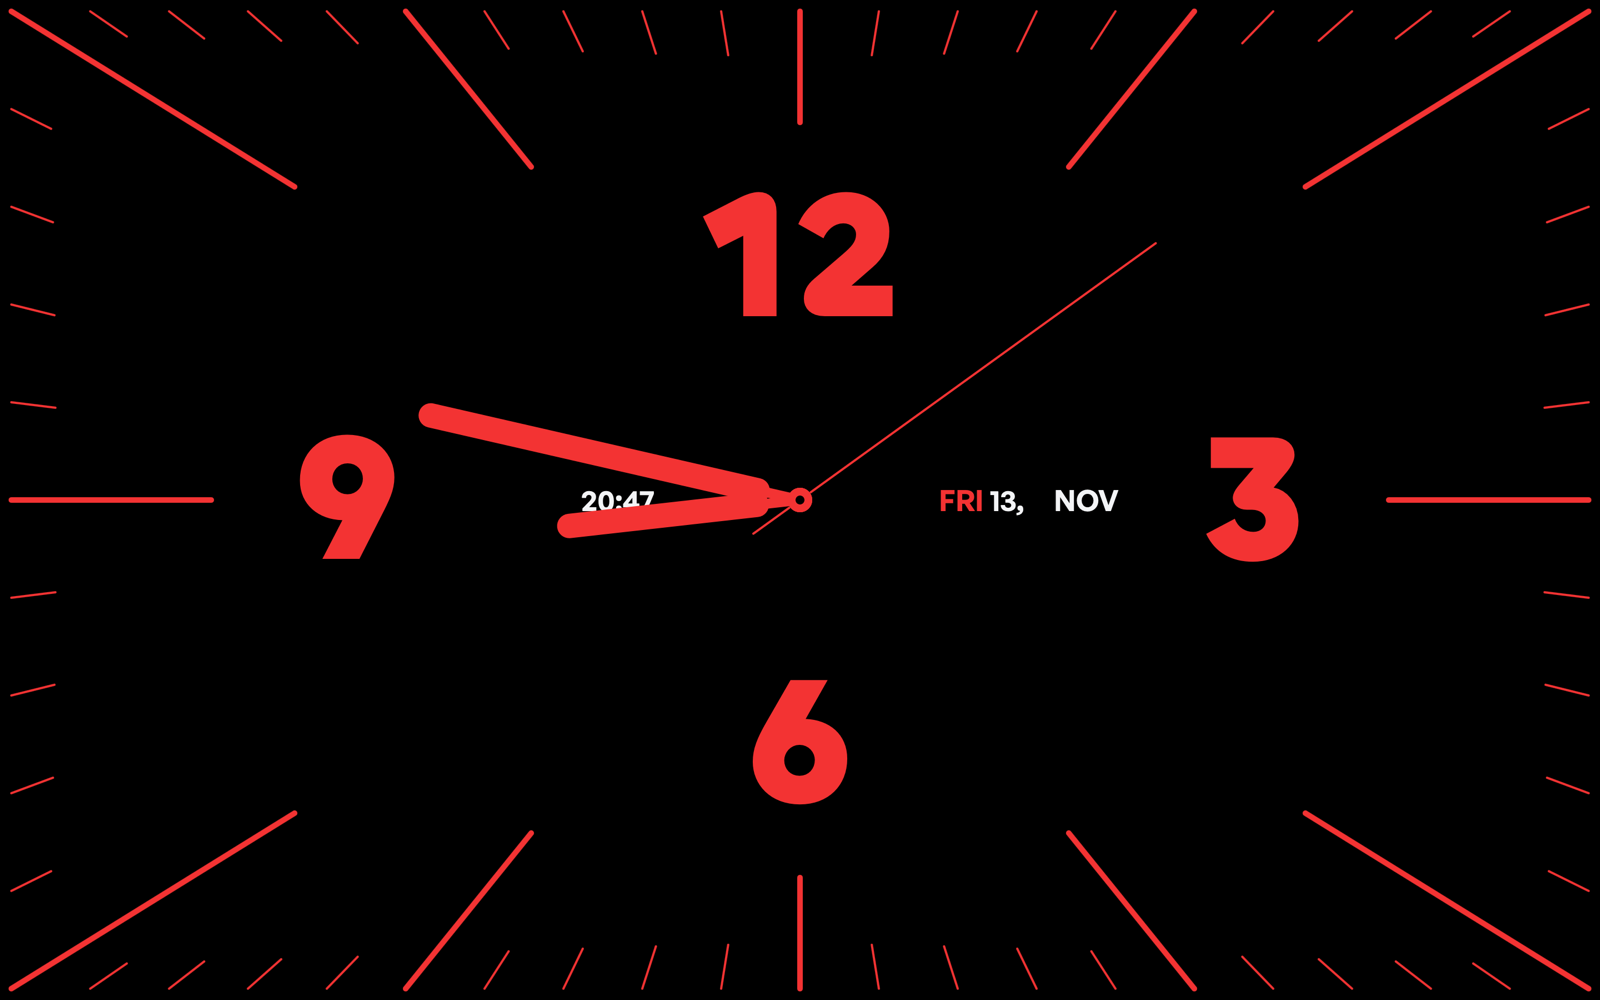
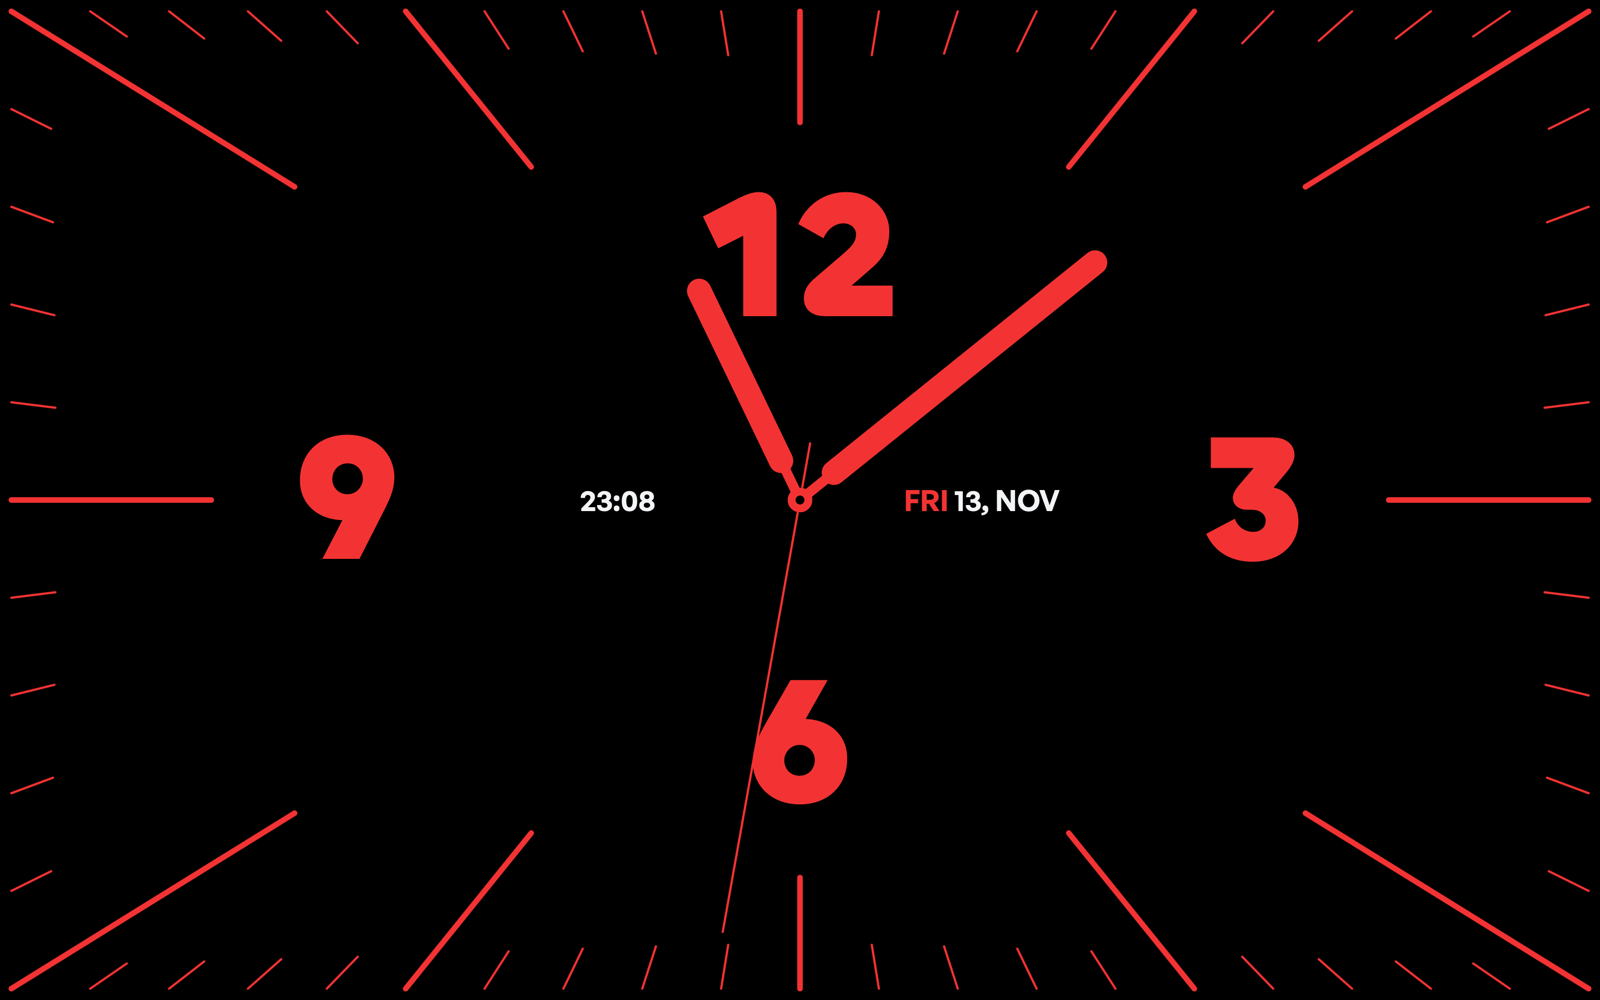
Fix Sourcery review findings from #1 (#2)
* fix: center the date and load the General font

The month was placed using its own width instead of the day's, leaving a gap after the day, and the centering ignored the month. The time and date font was never requested, so the canvas could draw them in a fallback; its face is semibold, so it's now declared as 600 to match the canvas. Regenerates the README screenshot and saver thumbnails.

* fix(saver): reload after WebKit failures and install without losing the old saver

The saver reloads the page (up to 3 times) when the web content process dies or the page fails to load, instead of staying black until macOS restarts it. saver:install copies the new bundle next to the installed one and swaps it in only after the copy succeeds.

* ci: harden the release workflow

Build jobs get read-only access and don't keep checkout credentials; only the release job can write. Both builds use the commit the tag resolved to. Runs for the same tag are serialized, and a new release stays a draft until every file is attached.

* fix(windows): open the saver for argument-less debug launches

pnpm tauri dev starts the app without /s, which made it exit straight away on Windows. The README no longer claims the Windows settings preview works.

---------

Changed region(s): [[0.25, 0.248, 0.7188, 0.558], [0.5625, 0.465, 0.7188, 0.527]]

diff --git a/saver/ClockedView.swift b/saver/ClockedView.swift
@@ -8,7 +8,12 @@ private let log = Logger(subsystem: "com.jo.clocked.saver", category: "saver")
 /// macOS handles everything else: idle time, the System Settings preview, dismissing and the password.
 @objc(ClockedView)
 final class ClockedView: ScreenSaverView, WKNavigationDelegate {
+    private static let pageURL = URL(string: "clocked://app/index.html")!
+    private static let maxReloads = 3
+
     private var webView: WKWebView?
+    /// Reloads after a failure since the page last loaded; stops a broken page from reloading forever
+    private var reloads = 0
 
     override init?(frame: NSRect, isPreview: Bool) {
         super.init(frame: frame, isPreview: isPreview)
@@ -67,14 +72,30 @@ final class ClockedView: ScreenSaverView, WKNavigationDelegate {
         webView.appearance = NSAppearance(named: .darkAqua)
         // Let the black background below show until the page has loaded
         webView.setValue(false, forKey: "drawsBackground")
-        webView.load(URLRequest(url: URL(string: "clocked://app/index.html")!))
+        webView.load(URLRequest(url: Self.pageURL))
         addSubview(webView)
         self.webView = webView
+        reloads = 0
     }
 
     private func unloadPage() {
         webView?.removeFromSuperview()
         webView = nil
+    }
+
+    /// Reloads the page after WebKit fails, instead of leaving the saver black until macOS restarts it
+    private func recover(_ webView: WKWebView, reason: String) {
+        guard webView === self.webView else { return } // Already unloaded or replaced
+        guard reloads < Self.maxReloads else {
+            log.error("\(reason, privacy: .public); giving up after \(Self.maxReloads) reloads")
+            return
+        }
+        reloads += 1
+        log.error("\(reason, privacy: .public); reloading (attempt \(self.reloads))")
+        DispatchQueue.main.asyncAfter(deadline: .now() + 1) { [weak self, weak webView] in
+            guard let self, let webView, webView === self.webView else { return }
+            webView.load(URLRequest(url: Self.pageURL))
+        }
     }
 
     /// Calls a private WebKit setter taking a BOOL, only if this macOS version still has it
@@ -91,6 +112,7 @@ final class ClockedView: ScreenSaverView, WKNavigationDelegate {
     // MARK: Diagnostics: `log stream --predicate 'subsystem == "com.jo.clocked.saver"'`
 
     func webView(_ webView: WKWebView, didFinish navigation: WKNavigation!) {
+        reloads = 0
         log.info("page loaded, window=\(self.window != nil) visible=\(self.window?.isVisible ?? false)")
         // The clock draws on requestAnimationFrame, which WebKit pauses if it thinks the view is hidden
         webView.callAsyncJavaScript(
@@ -111,15 +133,23 @@ final class ClockedView: ScreenSaverView, WKNavigationDelegate {
     }
 
     func webView(_ webView: WKWebView, didFail navigation: WKNavigation!, withError error: Error) {
-        log.error("navigation failed: \(error, privacy: .public)")
+        guard !Self.isCancellation(error) else { return }
+        recover(webView, reason: "navigation failed: \(error)")
     }
 
     func webView(_ webView: WKWebView, didFailProvisionalNavigation navigation: WKNavigation!, withError error: Error) {
-        log.error("navigation failed to start: \(error, privacy: .public)")
+        guard !Self.isCancellation(error) else { return }
+        recover(webView, reason: "navigation failed to start: \(error)")
     }
 
     func webViewWebContentProcessDidTerminate(_ webView: WKWebView) {
-        log.error("web content process terminated")
+        recover(webView, reason: "web content process terminated")
+    }
+
+    /// A load replaced by another load reports a cancellation; that isn't a failure to recover from
+    private static func isCancellation(_ error: Error) -> Bool {
+        let error = error as NSError
+        return error.domain == NSURLErrorDomain && error.code == NSURLErrorCancelled
     }
 
     override func draw(_ rect: NSRect) {

diff --git a/src/App.tsx b/src/App.tsx
@@ -117,23 +117,22 @@ function App() {
     ctx.fillStyle = color;
     ctx.fillText(`${hours}:${minutes}`, -offset, 0);
 
-    // Weekday in the accent color followed by the day of the month
+    // Weekday in the accent color, then the day of the month and the month, centered as one line
     const weekday = now.toLocaleDateString(undefined, { weekday: "short" }).toUpperCase() + " ";
-    const day = `${String(now.getDate())},`;
-
-    const monthIdx = Number(now.getMonth());
-    const month = MONTHS[monthIdx];
-    const monthWidth = ctx.measureText(month).width;
+    const day = `${String(now.getDate())}, `;
+    const month = MONTHS[now.getMonth()];
 
     const weekdayWidth = ctx.measureText(weekday).width;
-    const startX = offset - (weekdayWidth + ctx.measureText(day).width) / 2;
+    const dayWidth = ctx.measureText(day).width;
+    const monthWidth = ctx.measureText(month).width;
+    const startX = offset - (weekdayWidth + dayWidth + monthWidth) / 2;
 
     ctx.textAlign = "left";
     ctx.fillStyle = ACCENT;
     ctx.fillText(weekday, startX, 0);
     ctx.fillStyle = color;
     ctx.fillText(day, startX + weekdayWidth, 0);
-    ctx.fillText(month, startX + weekdayWidth + monthWidth, 0);
+    ctx.fillText(month, startX + weekdayWidth + dayWidth, 0);
 
     ctx.restore();
   }
@@ -252,14 +251,13 @@ function App() {
     watchPixelRatio();
     window.addEventListener("resize", resize);
 
-    // Canvas text alone doesn't trigger a web font download, so request Chillax explicitly.
-    // The frame loop picks it up as soon as it has loaded.
-    document.fonts.load(`700 1em Chillax`).catch(() => {
-      // Keep the fallback font
-    });
-    document.fonts.load(`600 1em Chillax`).catch(() => {
-      // Keep the fallback font
-    });
+    // Canvas text alone doesn't trigger a web font download, so request each face the canvas
+    // draws with. The frame loop picks them up as soon as they have loaded.
+    for (const font of ["700 1em Chillax", "600 1em Chillax", "600 1em General"]) {
+      document.fonts.load(font).catch(() => {
+        // Keep the fallback font
+      });
+    }
 
     frame = requestAnimationFrame(draw);
 

diff --git a/src/index.css b/src/index.css
@@ -17,7 +17,7 @@
 @font-face {
   font-family: "General";
   src: url("./assets/general-sans-semibold.woff2") format("woff2");
-  font-weight: 700;
+  font-weight: 600;
   font-style: normal;
   font-display: swap;
 }

diff --git a/src-tauri/src/lib.rs b/src-tauri/src/lib.rs
@@ -15,8 +15,10 @@ pub fn run() {
     #[cfg(windows)]
     {
         let arg = std::env::args().nth(1).unwrap_or_default().to_lowercase();
-        if !arg.starts_with("/s") {
-            return; // /c, /p, none → nothing to do
+        // `tauri dev` starts debug builds with no arguments, so show the saver then too
+        let dev_launch = cfg!(debug_assertions) && arg.is_empty();
+        if !arg.starts_with("/s") && !dev_launch {
+            return; // /c, /p (the preview stays blank), none → nothing to do
         }
     }
 

diff --git a/README.md b/README.md
@@ -15,7 +15,7 @@
 ## Features
 
 - Bold analog clock with the digital time and date, sized to fill the screen
-- Real OS screen saver: the system handles the idle timer, preview, dismissing and the password prompt
+- Real OS screen saver: the system handles the idle timer, dismissing and the password prompt
 - Covers every monitor on Windows
 - Dark theme, built-in fonts, works offline
 
@@ -42,7 +42,7 @@ To update, install the new version over the old one, then log out and back in so
 2. Right-click it and choose **Install**. Windows may show a SmartScreen warning because the file isn't signed; choose **More info → Run anyway**.
 3. In **Settings → Personalization → Lock screen → Screen saver**, pick **Clocked**, set the wait time and tick **On resume, display logon screen**.
 
-Needs the WebView2 runtime, which is preinstalled on Windows 10 and 11.
+Needs the WebView2 runtime, which is preinstalled on Windows 10 and 11. The small preview in the Screen Saver Settings dialog stays blank; use **Preview** to see it full screen.
 
 ## Development
 
